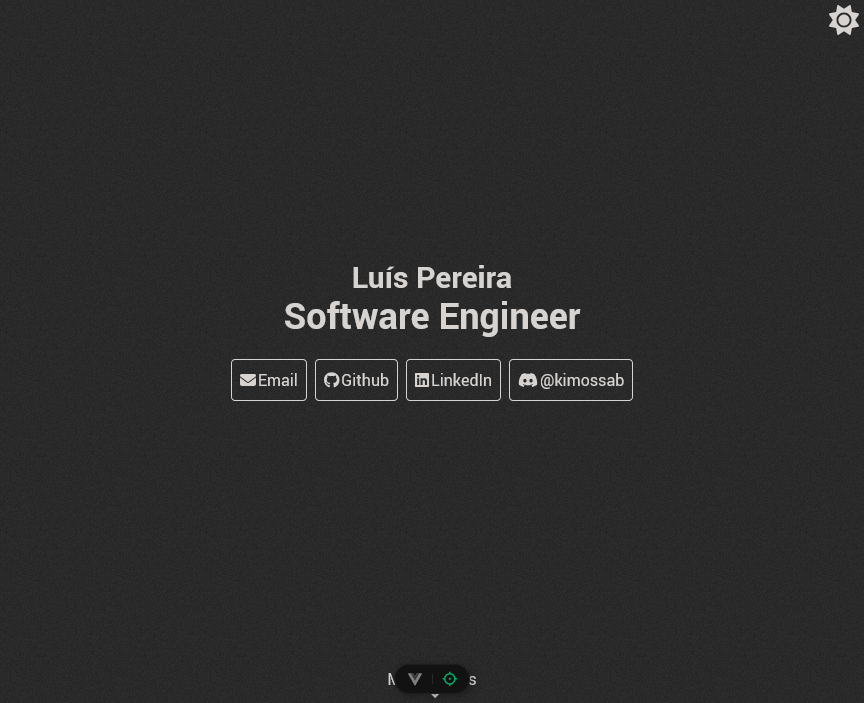
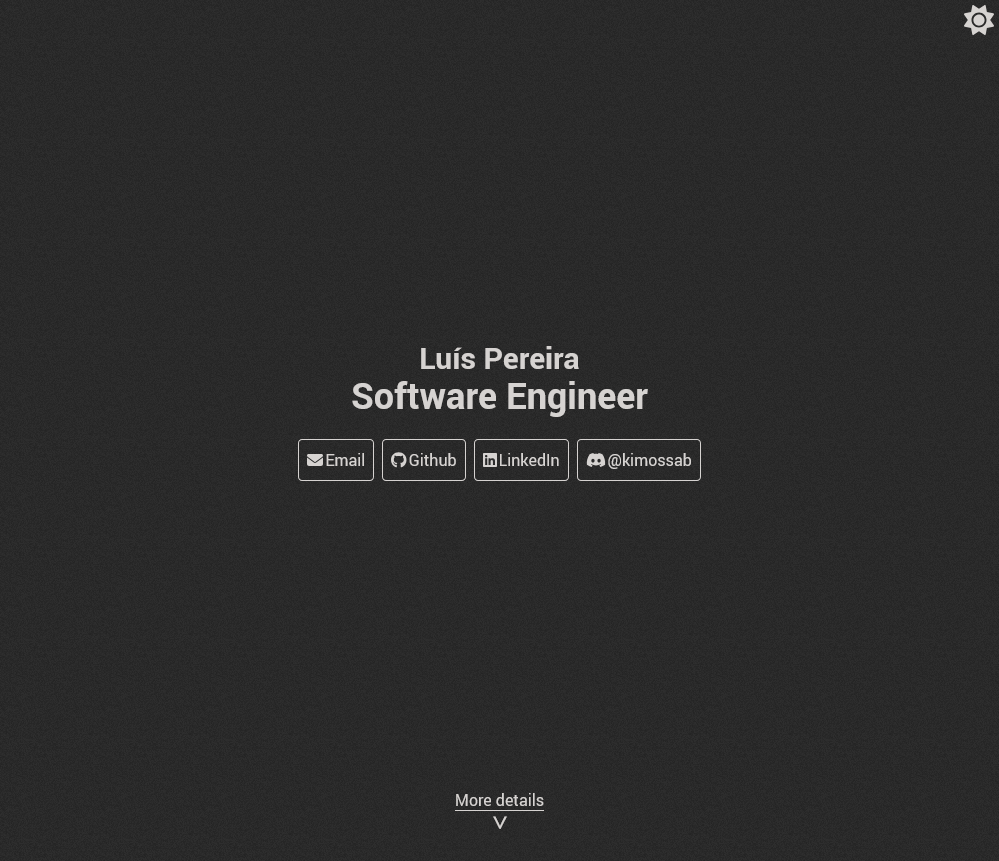
chore: mobile fixes

diff --git a/src/components/ToolDetail.vue b/src/components/ToolDetail.vue
@@ -1,0 +1,45 @@
+<script setup lang="ts">
+import type { ToolData } from '@/helpers/experience';
+
+defineProps<{
+  tool: ToolData,
+  isActive: boolean
+}>();
+</script>
+
+<template>
+  <div :key="tool.name" :class="[`tool tool-${tool.type}`, { 'active': isActive }]">
+    {{ tool.name }} <i :class="tool.icon"></i>
+  </div>
+</template>
+<style>
+@reference "@/assets/css/base.css";
+
+.tool {
+  @apply duration-500;
+  @apply opacity-20;
+  @apply border rounded p-2 flex items-center justify-center gap-2 h-16;
+
+  @apply hover:scale-105;
+}
+.tool.active {
+  @apply opacity-100;
+}
+.tool i {
+  @apply text-2xl
+}
+
+.tool-lang {
+  @apply border-emerald-300 shadow-lg bg-radial from-transparent dark:from-emerald-300/25 to-emerald-300/50 dark:to-transparent;
+}
+.tool-frame {
+  @apply border-orange-300 shadow-lg bg-radial from-transparent dark:from-orange-300/25 to-orange-300/50 dark:to-transparent;
+}
+.tool-db {
+  @apply border-sky-300 shadow-lg bg-radial from-transparent dark:from-sky-300/25 to-sky-300/50 dark:to-transparent;
+}
+.tool-other {
+  @apply border-amber-300 shadow-lg bg-radial from-transparent dark:from-amber-300/25 to-amber-300/50 dark:to-transparent;
+}
+
+</style>

diff --git a/src/components/AboutMe.vue b/src/components/AboutMe.vue
@@ -11,6 +11,7 @@ import { html as wtx } from "@/assets/markdown/experience-wtx.md";
 import { html as xgeeks } from "@/assets/markdown/experience-xgeeks.md";
 import TimeLine from "@/components/TimeLine.vue";
 import ExperienceDetails from "./ExperienceDetails.vue";
+import ToolDetail from "./ToolDetail.vue";
 import { tools, experienceDates, experienceTools, toolExp, Experiences } from "@/helpers/experience";
 import { useTemplateRef, ref, watch } from "vue";
 
@@ -214,10 +215,8 @@ watch(toolList, (value) => {
     <!-- <div class="w-0.5 h-full bg-base-white"></div> -->
     <div class="h-fit sticky items-stretch bottom-0 hidden md:flex" :style="`top: ${toolListTop}px;`" ref="tool-list">
       <div class="grid grid-cols-3 text-sm lg:text-base lg:grid-cols-4 gap-6 content-center w-full">
-        <div v-for="tool in tools" :key="tool.name"
-          :class="[`tool tool-${tool.type}`, { 'active': toolExp[tool.tool].has(activeElement) }]">
-          {{ tool.name }} <i :class="tool.icon"></i>
-        </div>
+        <ToolDetail v-for="tool in tools" :key="tool.name" :tool="tool"
+          :is-active="toolExp[tool.tool].has(activeElement)" />
       </div>
     </div>
   </div>

diff --git a/src/components/DarkToggle.vue b/src/components/DarkToggle.vue
@@ -9,21 +9,14 @@ const toggle = () => {
 </script>
 
 <template>
-  <div
-    class="absolute right-0 top-0 z-10 cursor-pointer w-10 h-10 flex justify-center"
-    @click="toggle"
-  >
+  <div class="sticky ml-[100vw] -translate-x-full top-0 z-10 cursor-pointer w-10 h-10 flex justify-center"
+    @click="toggle">
     <transition name="scroll-dark-mode">
-      <div
-        v-if="store.darkMode"
-        class="absolute text-3xl top-1/2 left-1/2 -translate-x-1/2 -translate-y-1/2 duration-500"
-      >
+      <div v-if="store.darkMode"
+        class="absolute text-3xl top-1/2 left-1/2 -translate-x-1/2 -translate-y-1/2 duration-500">
         <font-awesome-icon icon="sun"></font-awesome-icon>
       </div>
-      <div
-        v-else
-        class="absolute text-3xl top-1/2 left-1/2 -translate-x-1/2 -translate-y-1/2 duration-500"
-      >
+      <div v-else class="absolute text-3xl top-1/2 left-1/2 -translate-x-1/2 -translate-y-1/2 duration-500">
         <font-awesome-icon icon="moon"></font-awesome-icon>
       </div>
     </transition>

diff --git a/src/components/TimeLine.vue b/src/components/TimeLine.vue
@@ -44,7 +44,7 @@ watch(props, (value) => {
 </script>
 
 <template>
-  <div class="flex justify-center sticky top-0  bg-[url(@/assets/bg.png)] bg-stone-300 dark:bg-neutral-800">
+  <div class="flex justify-center sticky top-0 bg-[url(@/assets/bg.png)] bg-base-white dark:bg-base-dark">
     <div class="time-line">
       <div class="relative w-full h-full flex items-end">
         <div class="time-line-bar" ref="timeline-bar"></div>
@@ -71,7 +71,7 @@ watch(props, (value) => {
 }
 
 .time-line-bar {
-  @apply rounded-2xl h-2 bg-base-white/25 mt-auto w-full absolute;
+  @apply rounded-2xl h-2 bg-base-dark/25 dark:bg-base-white/25 mt-auto w-full absolute;
 }
 
 .time-line-check {
@@ -84,6 +84,6 @@ watch(props, (value) => {
   @apply border-l h-6;
 }
 .time-line-bar-filled {
-  @apply  h-2 mt-auto bg-base-white absolute;
+  @apply  h-2 mt-auto bg-base-dark dark:bg-base-white absolute;
 }
 </style>

diff --git a/src/views/HomeView.vue b/src/views/HomeView.vue
@@ -37,34 +37,6 @@ import AboutMe from "@/components/AboutMe.vue";
 h3 {
   @apply text-center;
 }
-
-.tool {
-  @apply duration-500;
-  @apply opacity-20;
-  @apply border rounded p-2 flex items-center justify-center gap-2 h-16;
-
-  @apply hover:scale-105;
-}
-.tool.active {
-  @apply opacity-100;
-}
-.tool i {
-  @apply text-2xl
-}
-
-.tool-lang {
-  @apply border-emerald-300 shadow-lg bg-radial from-emerald-300/25 to-transparent;
-}
-.tool-frame {
-  @apply border-orange-300 shadow-lg bg-radial from-orange-300/25 to-transparent;
-}
-.tool-db {
-  @apply border-sky-300 shadow-lg bg-radial from-sky-300/25 to-transparent;
-}
-.tool-other {
-  @apply border-amber-300 shadow-lg bg-radial from-amber-300/25 to-transparent;
-}
-
 .experience {
   @apply  md:min-h-[50vh] py-6;
 }

diff --git a/src/components/ExperienceDetails.vue b/src/components/ExperienceDetails.vue
@@ -1,6 +1,8 @@
 <script setup lang="ts">
 import Markdown from "vue3-markdown-it";
 import type { ToolData } from '@/helpers/experience';
+import ToolList from "./ToolDetail.vue";
+import ToolDetail from "./ToolDetail.vue";
 
 defineProps<{
   markdown: string;
@@ -13,9 +15,7 @@ defineProps<{
     <Markdown class="mb-4 mt-2 flex flex-col gap-4 " :source="markdown" :html="true" />
 
     <div class="grid-cols-3 sm:grid-cols-4 gap-2 text-sm content-center w-full grid md:hidden">
-      <div v-for="tool in tools" :key="tool.name" :class="`tool tool-${tool.type} active`">
-        {{ tool.name }} <i :class="tool.icon"></i>
-      </div>
+      <ToolDetail v-for="tool in tools" :key="tool.name" :tool="tool" :is-active="true" />
     </div>
   </div>
 </template>

diff --git a/src/components/LandingSection.vue b/src/components/LandingSection.vue
@@ -4,7 +4,7 @@ import IconDetail from './IconDetail.vue';
 </script>
 
 <template>
-  <div class="w-screen h-dvh grid grid-rows-[1fr_auto] gap-2 justify-center">
+  <div class="w-screen h-dvh grid grid-rows-[1fr_6rem] gap-2 justify-center">
     <div class="flex flex-col justify-center items-center gap-6">
       <div class="text-center">
         <h2>Luís Pereira</h2>

diff --git a/src/assets/css/base.css b/src/assets/css/base.css
@@ -12,7 +12,8 @@
   --spacing-content-padding: max(0px, calc((100% - 60rem) / 2));
   --spacing-home-nav: min(41rem, 50vw);
   --spacing-nav-px: calc(var(--spacing-home-nav) / (3.73205080757 * 2));
-  --color-base-white: var(--color-stone-300)
+  --color-base-white: var(--color-stone-300);
+  --color-base-dark: var(--color-neutral-800)
 }
 
 @layer base { 

diff --git a/src/assets/markdown/about.md b/src/assets/markdown/about.md
@@ -2,7 +2,7 @@
 
 My name is Luís Pereira, also known as Kimossab. I'm a {{var:age}} years old software engineer from Portugal.  
 
-I've been working as a full-stack engineer ever since I finished Bachelor's Degree of Informatics Engineering in [IPV](https://www.estgv.ipv.pt/estgv/) in 2013.  
+I've been working as a full-stack engineer ever since I finished Bachelor's Degree of Informatics Engineering in [IPV](https://www.estgv.ipv.pt/estgv/) in 2016.  
 
 My hobbies are programming, playing video games, watching anime and reading Light Novels. I also enjoy playing around with electronics and home automation DIY projects.
 
